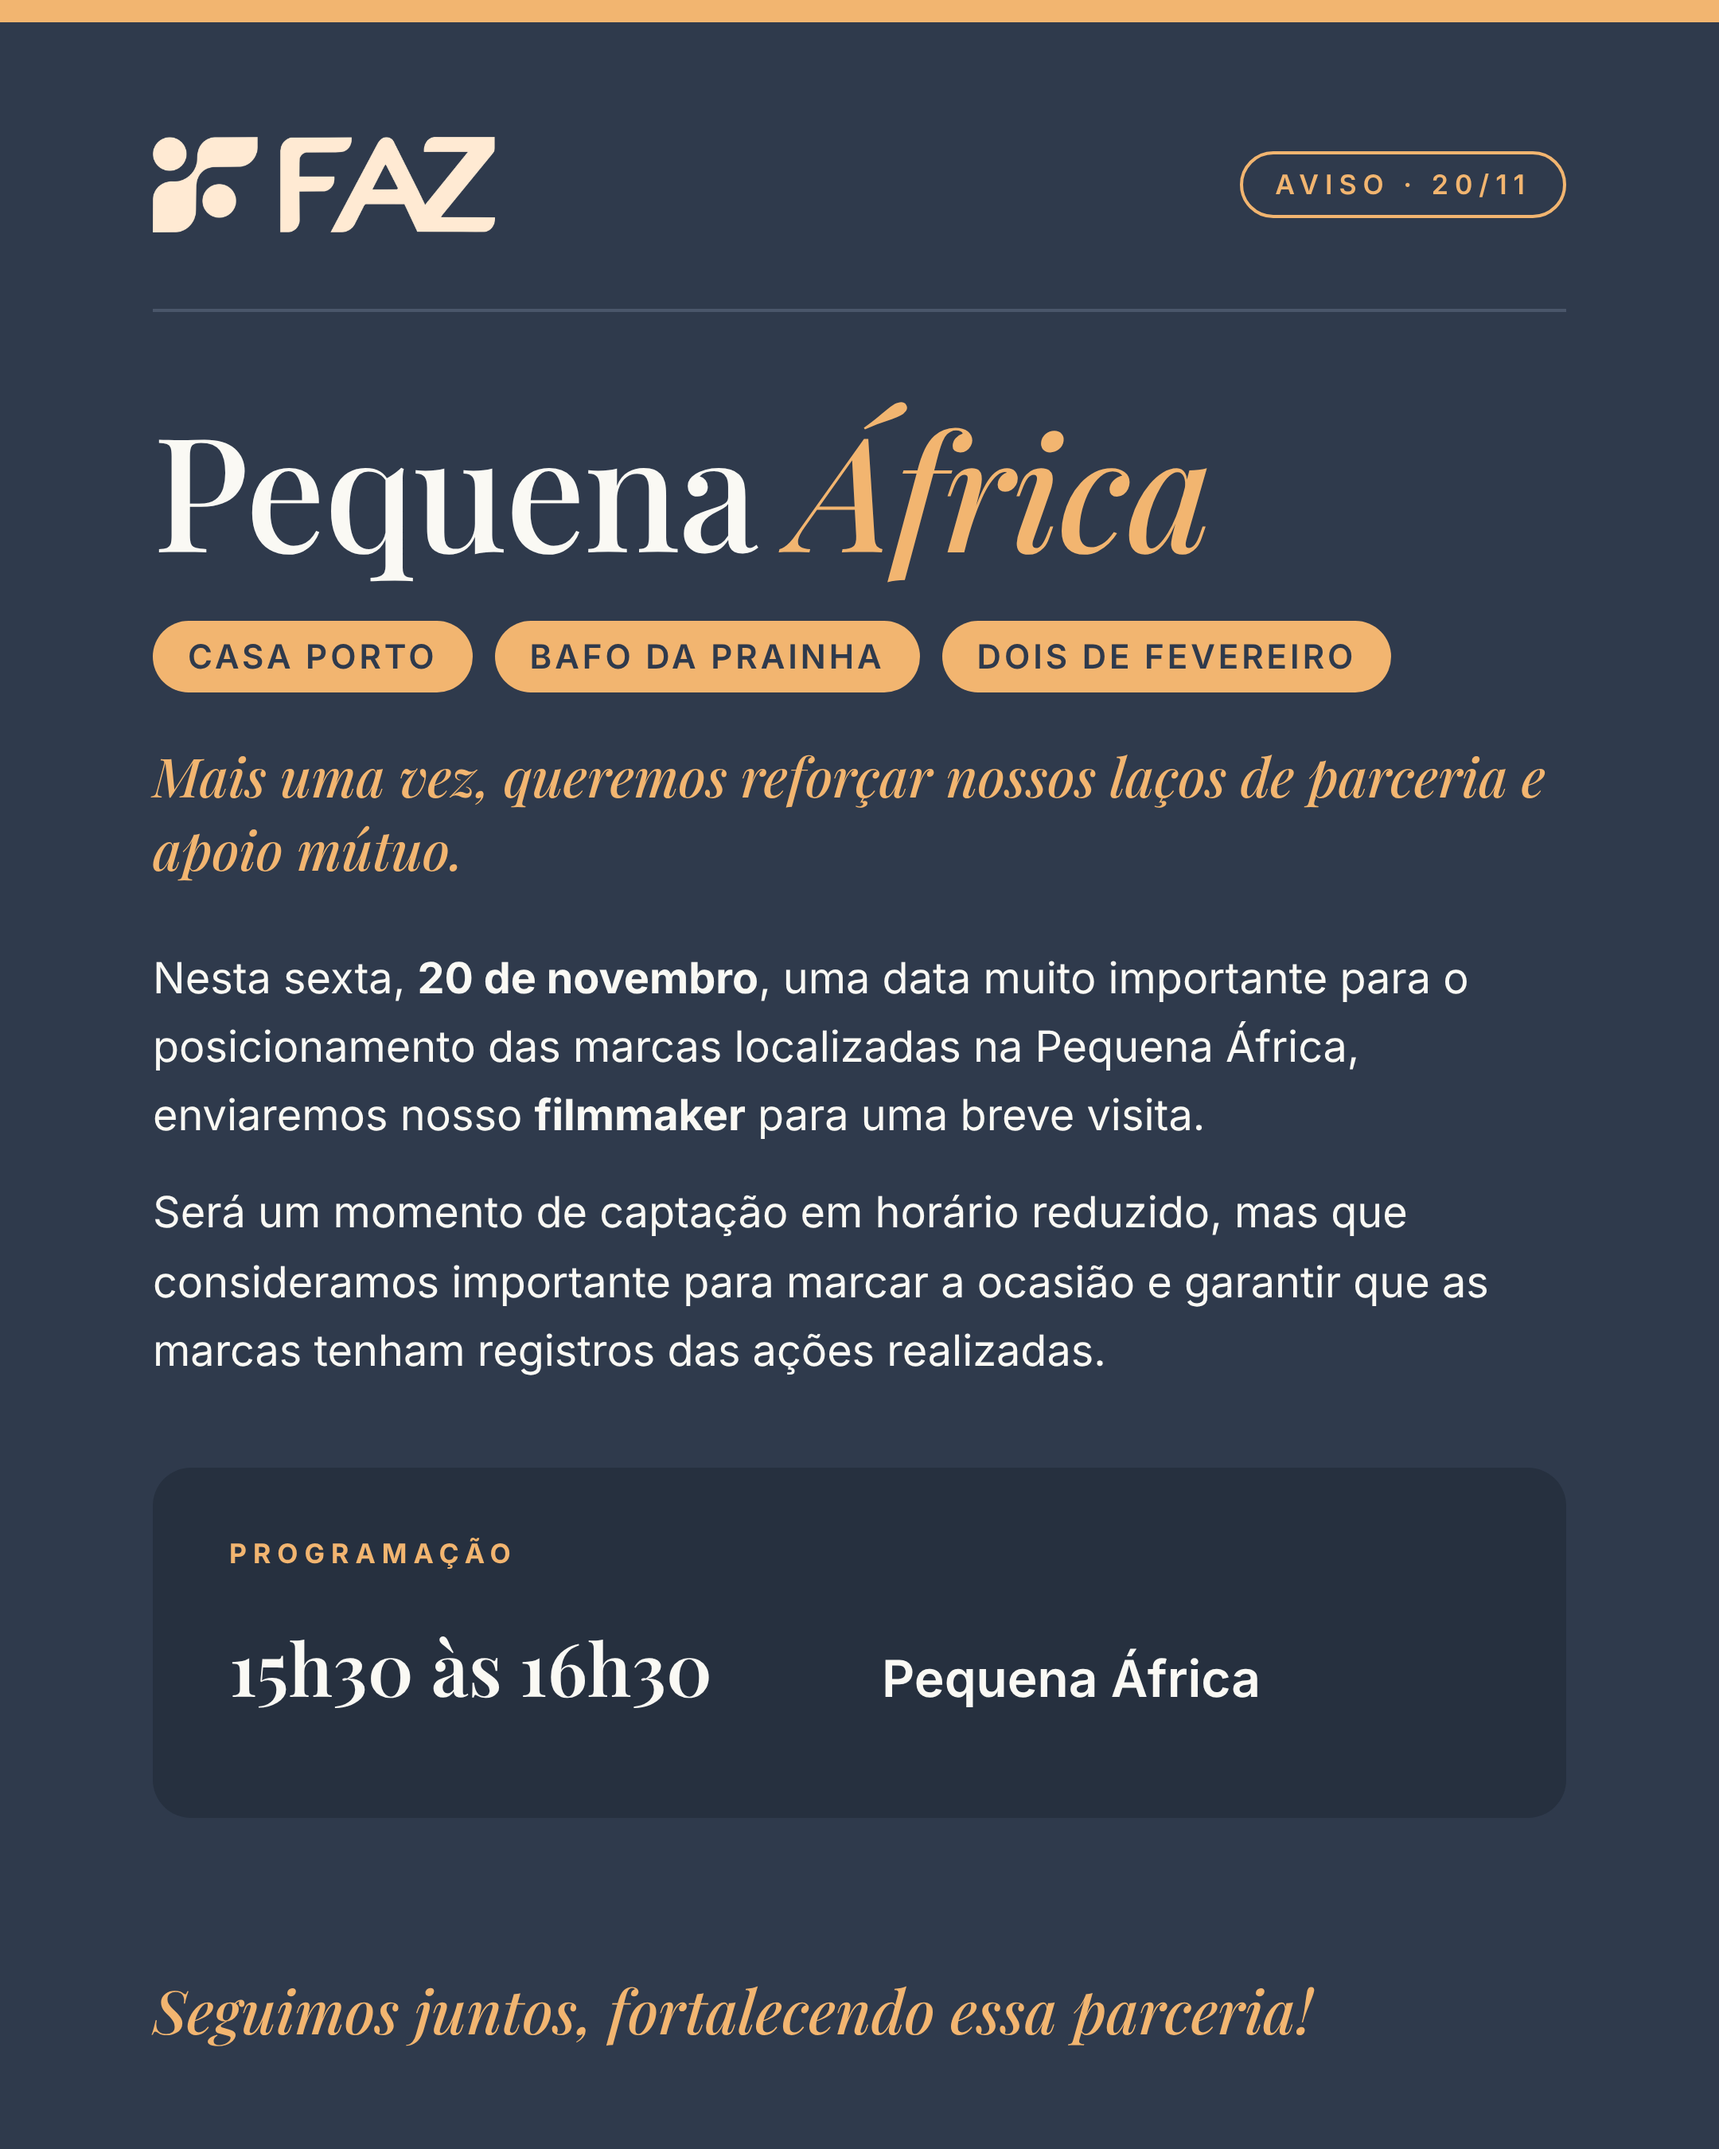
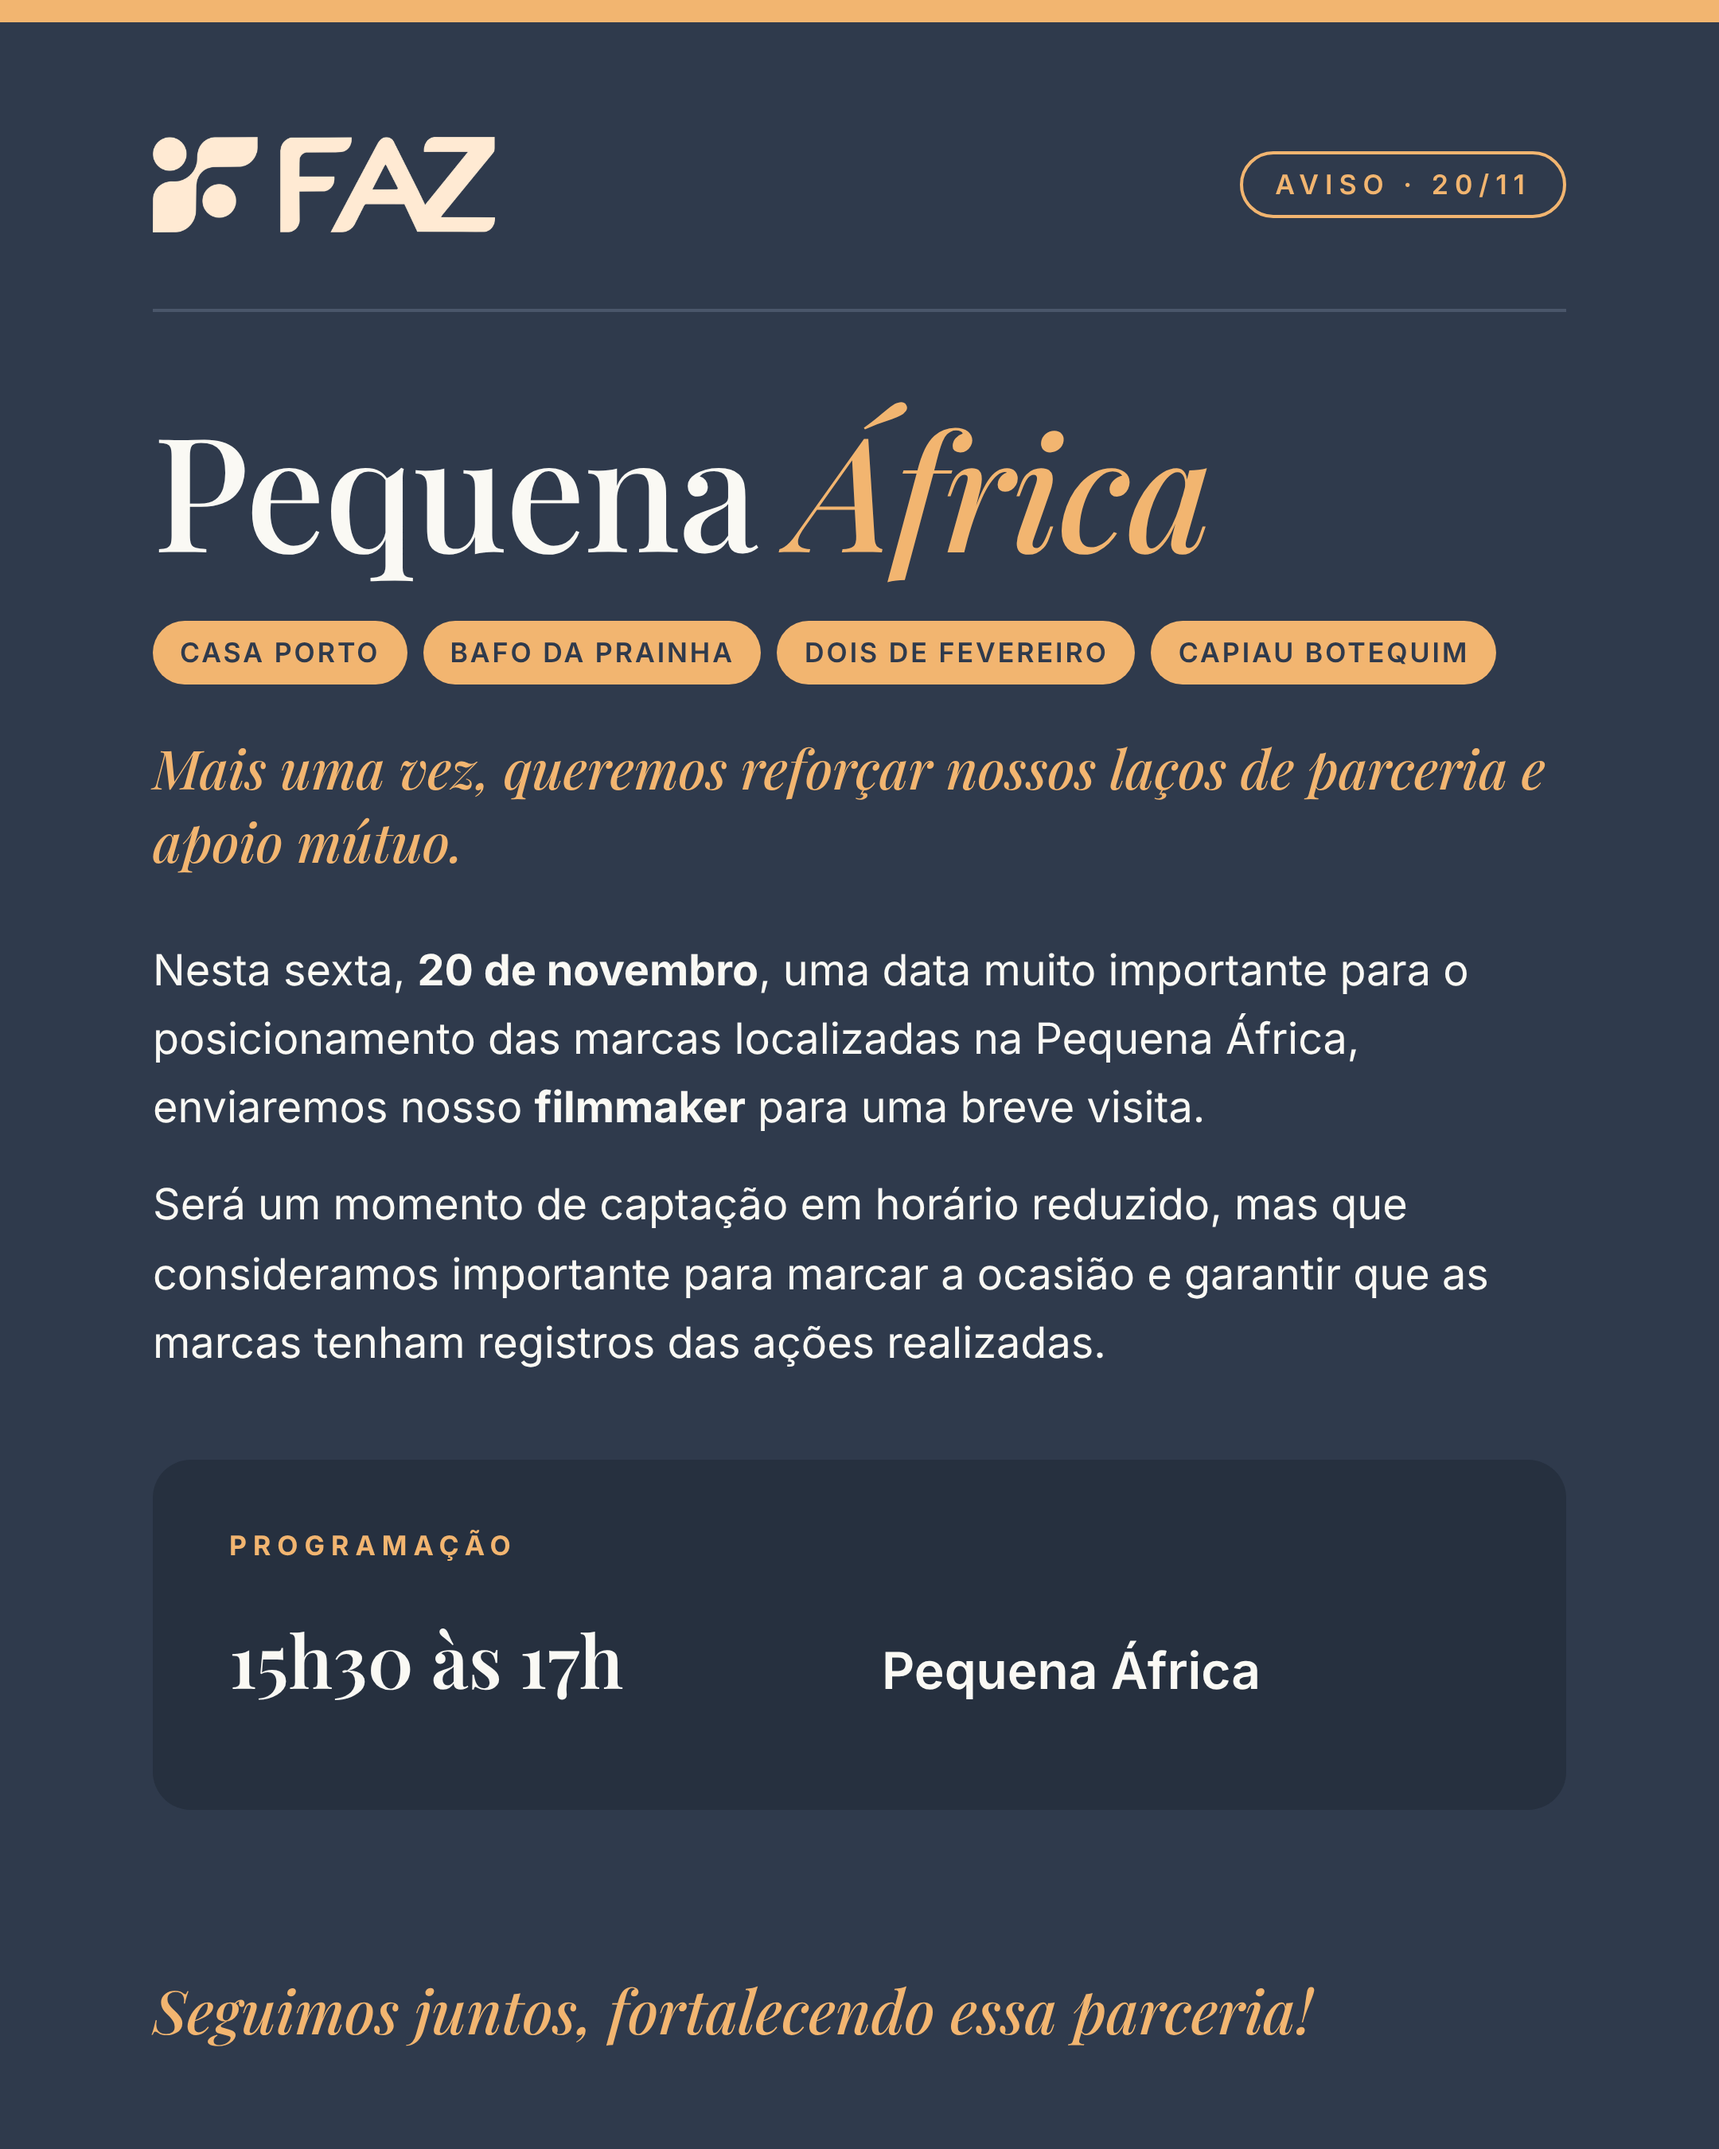
Aviso Pequena África: inclui Capiau Botequim e muda horário para 15h30 às 17h
Claude-Session: https://claude.ai/code/session_01NrFLg8teARWCnCwNSxCVA9

diff --git a/avisos/aviso-pequena-africa-filmmaker-20nov.html b/avisos/aviso-pequena-africa-filmmaker-20nov.html
@@ -15,7 +15,7 @@ body{width:1080px;height:1350px;background:var(--bg);color:var(--ink);font-famil
 .rule{height:2px;background:var(--line);margin:48px 0 60px}
 h1{font-family:"TAN Angleton","Playfair Display",Georgia,serif;font-weight:500;font-size:100px;line-height:1;letter-spacing:-.01em}
 h1 em{font-style:italic;color:var(--accent)}
-.bars{display:flex;gap:14px;flex-wrap:wrap;margin-top:34px}.bars span{font-weight:600;font-size:21px;letter-spacing:2px;text-transform:uppercase;color:var(--bg);background:var(--accent);border-radius:999px;padding:10px 22px}
+.bars{display:flex;gap:10px;flex-wrap:nowrap;margin-top:34px}.bars span{font-weight:600;font-size:17px;letter-spacing:1.5px;text-transform:uppercase;white-space:nowrap;color:var(--bg);background:var(--accent);border-radius:999px;padding:10px 17px}
 .lead{font-family:"TAN Angleton","Playfair Display",Georgia,serif;font-style:italic;font-size:34px;line-height:1.35;color:var(--accent);margin:30px 0 36px}
 p{font-size:27px;line-height:1.6;color:var(--ink);margin-bottom:18px}
 p b{font-weight:700}
@@ -35,13 +35,13 @@ p b{font-weight:700}
   <div class="head"><div class="logo" role="img" aria-label="FAZ"></div><div class="tag">Aviso · 20/11</div></div>
   <div class="rule"></div>
   <h1>Pequena <em>África</em></h1>
-  <div class="bars"><span>Casa Porto</span><span>Bafo da Prainha</span><span>Dois de Fevereiro</span></div>
+  <div class="bars"><span>Casa Porto</span><span>Bafo da Prainha</span><span>Dois de Fevereiro</span><span>Capiau Botequim</span></div>
   <div class="lead">Mais uma vez, queremos reforçar nossos laços de parceria e apoio mútuo.</div>
   <p>Nesta sexta, <b>20 de novembro</b>, uma data muito importante para o posicionamento das marcas localizadas na Pequena África, enviaremos nosso <b>filmmaker</b> para uma breve visita.</p>
   <p>Será um momento de captação em horário reduzido, mas que consideramos importante para marcar a ocasião e garantir que as marcas tenham registros das ações realizadas.</p>
   <div class="prog">
     <h2>Programação</h2>
-    <div class="slot"><div class="time">15h30 às 16h30</div><div class="place">Pequena África</div></div>
+    <div class="slot"><div class="time">15h30 às 17h</div><div class="place">Pequena África</div></div>
   </div>
   <div class="foot"><p>Seguimos juntos, fortalecendo essa parceria!</p></div>
 </div>
